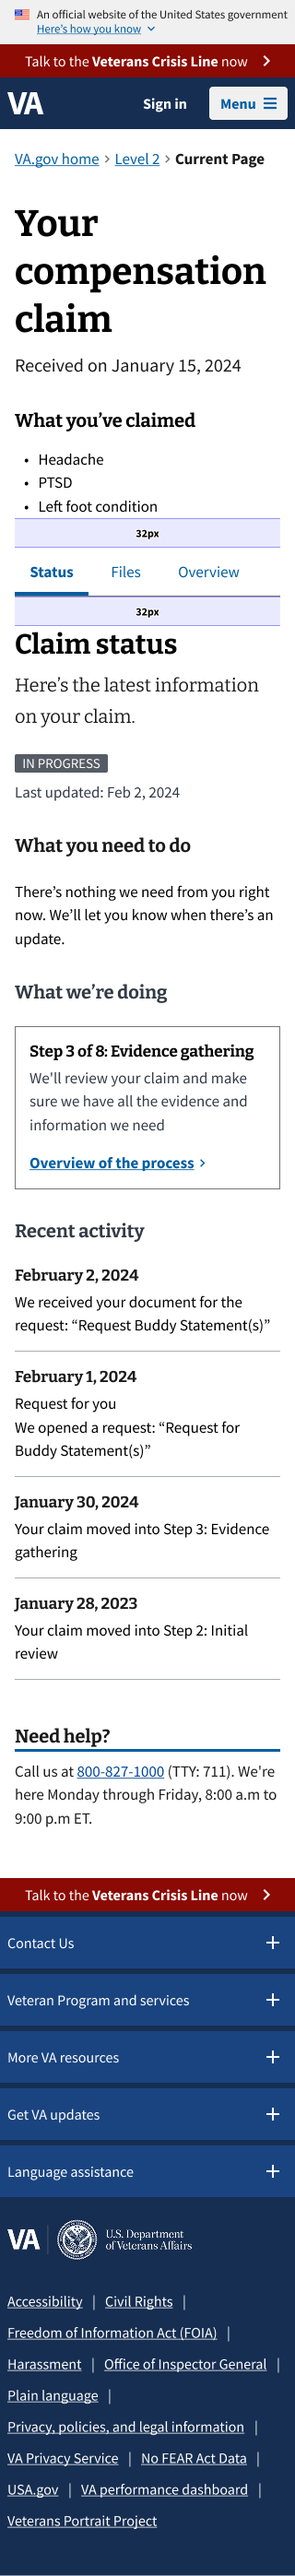
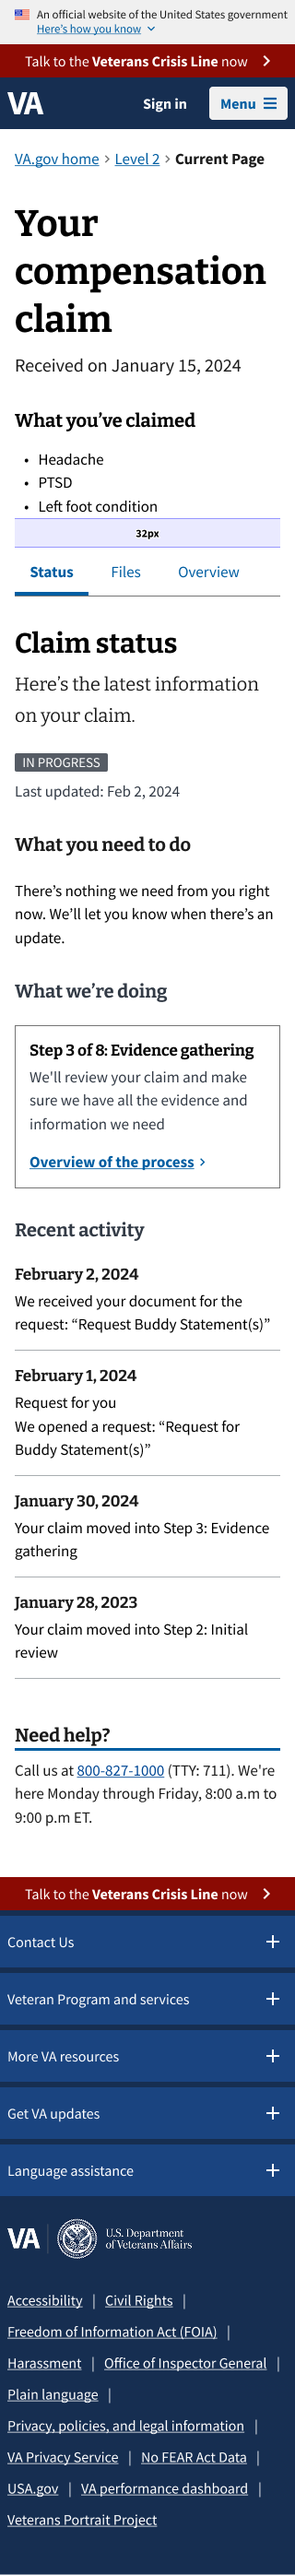
Updated mobile mockups and styles

diff --git a/src/_components/tabs.md b/src/_components/tabs.md
@@ -92,8 +92,8 @@ The Tabs use a tab panel as a container for the content associated with the sele
 #### Mobile view
 
 <figure class="site-component-example">
-  <img src="{{ site.baseurl }}/images/components/tabs/Mobile-ClaimStatus-Status.png" alt="Mobile view: Tabs in Claim Status example with first tab selected and margin annotations." class="site-component-example__image" style="max-width:256px">
-  <img src="{{ site.baseurl }}/images/components/tabs/Mobile-ClaimStatus-Files.png" alt="Mobile view: Tabs in Claim Status example with second tab selected." class="site-component-example__image" style="max-width:256px">
+  <img src="{{ site.baseurl }}/images/components/tabs/Mobile-ClaimStatus-Status.png" alt="Mobile view: Tabs in Claim Status example with first tab selected and margin annotations." class="site-component-example__image" style="max-width:256px; vertical-align: top;">
+  <img src="{{ site.baseurl }}/images/components/tabs/Mobile-ClaimStatus-Files.png" alt="Mobile view: Tabs in Claim Status example with second tab selected." class="site-component-example__image" style="max-width:256px; vertical-align: top;">
   <figcaption class="site-component-example__caption">Mobile views: Tabs shown in Claim Status tool with margin annotations.</figcaption>
 </figure>
 
